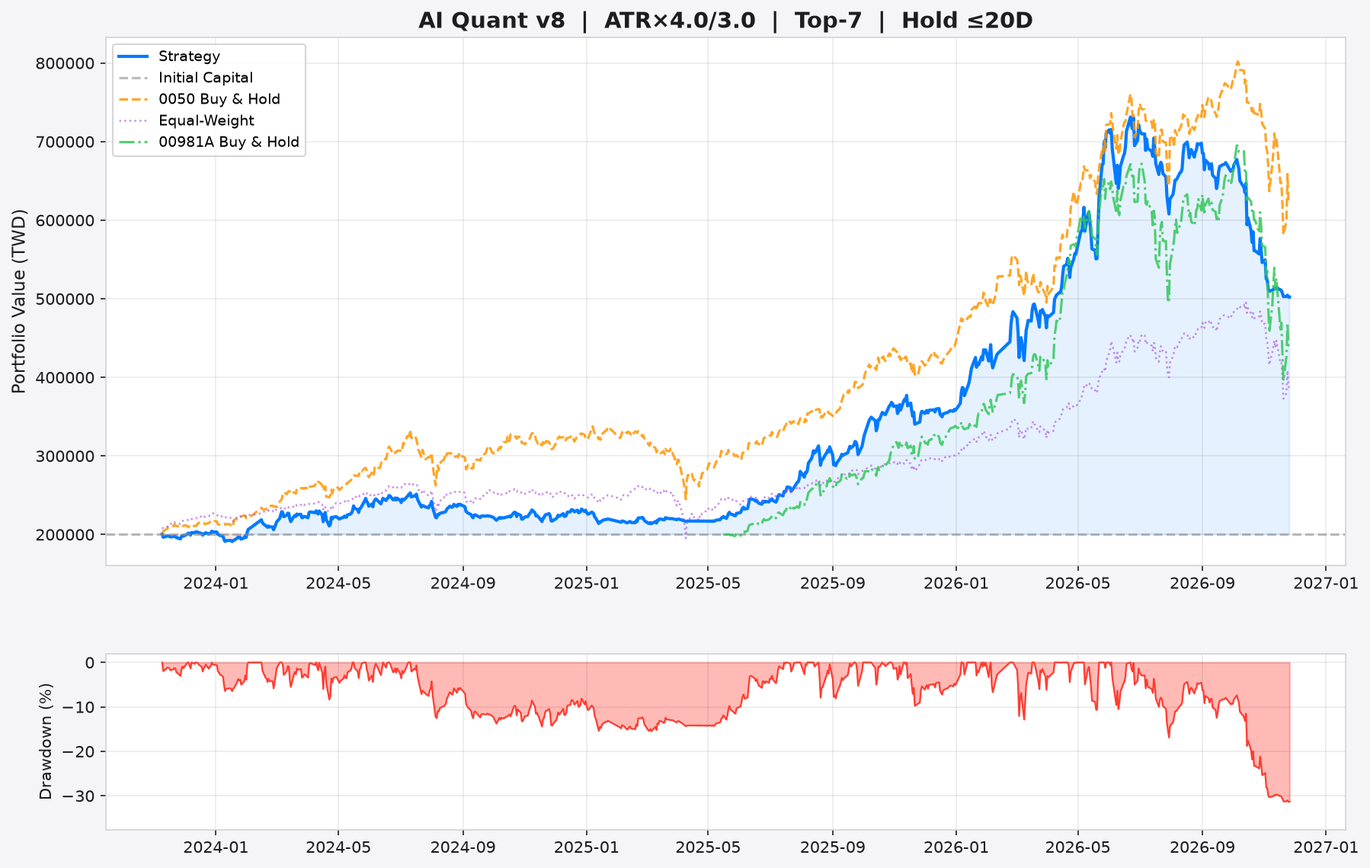
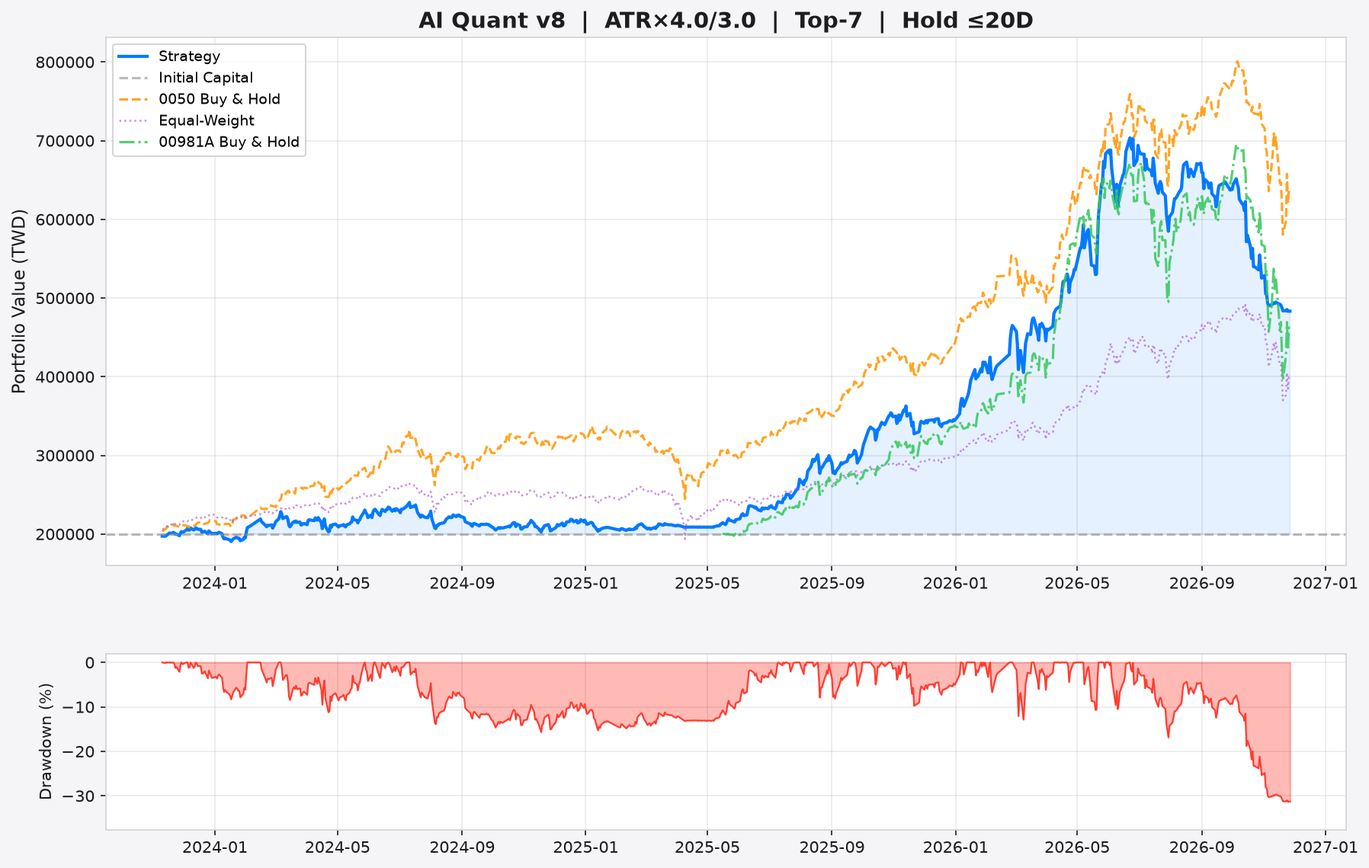
📊 AI Report v8.5 + Paper Trading (2026-11-27)

diff --git a/stock_report.html b/stock_report.html
@@ -3,7 +3,7 @@
 <head>
     <meta charset="utf-8">
     <meta name="viewport" content="width=device-width, initial-scale=1.0">
-    <title>AI 台股量化交易 v8.5 — 2026-11-26</title>
+    <title>AI 台股量化交易 v8.5 — 2026-11-27</title>
     <meta name="description" content="AI 驅動的台股量化交易系統 v8.5，完整風險報告、Benchmark 對比、OCO 智慧掛單建議">
     <script>
         (function() {
@@ -292,7 +292,7 @@
 
     <h1>🎯 AI 台股量化交易 v8.5</h1>
     <p class="subtitle">
-        Event-Driven System &nbsp;|&nbsp; 報表日期: 2026-11-26 &nbsp;|&nbsp;
+        Event-Driven System &nbsp;|&nbsp; 報表日期: 2026-11-27 &nbsp;|&nbsp;
         <span class="config-badge">🛡 ATR×4.0/3.0</span>
         <span class="config-badge">🎯 Top-7</span>
         <span class="config-badge">⏱ 最長 20 天</span>
@@ -303,23 +303,23 @@
     <div class="stats">
         <div class="stat-card">
             <div class="label">策略總報酬率</div>
-            <div class="value" style="color:#00ff00;">+151.1%</div>
+            <div class="value" style="color:#00ff00;">+141.7%</div>
         </div>
         <div class="stat-card">
             <div class="label">年化報酬率</div>
-            <div class="value" style="color:#00ff00;">+36.9%</div>
+            <div class="value" style="color:#00ff00;">+35.1%</div>
         </div>
         <div class="stat-card">
             <div class="label">年化波動率</div>
-            <div class="value">27.2%</div>
+            <div class="value">27.4%</div>
         </div>
         <div class="stat-card risk">
             <div class="label">Sharpe Ratio</div>
-            <div class="value" style="color:#00ff00;">1.29</div>
+            <div class="value" style="color:#00ff00;">1.25</div>
         </div>
         <div class="stat-card risk">
             <div class="label">Sortino Ratio</div>
-            <div class="value">1.80</div>
+            <div class="value">1.70</div>
         </div>
         <div class="stat-card risk">
             <div class="label">最大回撤</div>
@@ -327,23 +327,23 @@
         </div>
         <div class="stat-card risk">
             <div class="label">Calmar Ratio</div>
-            <div class="value">1.18</div>
+            <div class="value">1.12</div>
         </div>
         <div class="stat-card">
             <div class="label">完成交易數</div>
-            <div class="value">569</div>
+            <div class="value">565</div>
         </div>
         <div class="stat-card">
             <div class="label">勝率</div>
-            <div class="value" style="color:#00ff00;">51.3%</div>
+            <div class="value" style="color:#00ff00;">51.2%</div>
         </div>
         <div class="stat-card">
             <div class="label">Profit Factor</div>
-            <div class="value">1.38</div>
+            <div class="value">1.35</div>
         </div>
         <div class="stat-card">
             <div class="label">平均報酬/筆</div>
-            <div class="value">+1.87%</div>
+            <div class="value">+1.75%</div>
         </div>
         <div class="stat-card">
             <div class="label">平均持有天數</div>
@@ -370,15 +370,16 @@
             </tr>
         </thead>
         <tbody>
-<tr><td>2618</td><td>3.98</td><td>45.7</td><td><span style="color:#00ff00; font-weight:bold;">🟢 建議買進 #1</span></td><td><b>停利:</b> <span style="color:#00ff00">52.6</span> (+15.0%) <br><b>停損:</b> <span style="color:#ff4444">42.0</span> (-8.0%) <br><b>最晚出場:</b> 2026-12-24</td><td><span style="font-size:0.72rem; color:#888;">歷史 <b>5</b>筆 | 勝率 <b style="color:#ff4444">20%</b> | 均報酬 <b style="color:#ff4444">-5.6%</b></span></td><td><span style="font-size:0.78rem;">🟡 小買<br><span style="color:#ffab00; font-weight:bold;">+1.1%</span></span></td><td><span style="font-size:0.78rem;">⚪ 中性</span></td></tr>
-<tr><td>2412</td><td>3.95</td><td>163.5</td><td><span style="color:#00ff00; font-weight:bold;">🟢 建議買進 #2</span></td><td><b>停利:</b> <span style="color:#00ff00">188.0</span> (+15.0%) <br><b>停損:</b> <span style="color:#ff4444">150.4</span> (-8.0%) <br><b>最晚出場:</b> 2026-12-24</td><td><span style="font-size:0.72rem; color:#888;">歷史 <b>3</b>筆 | 勝率 <b style="color:#00ff00">100%</b> | 均報酬 <b style="color:#00ff00">+3.1%</b></span></td><td><span style="font-size:0.78rem;">🟡 小買<br><span style="color:#ffab00; font-weight:bold;">+1.1%</span></span></td><td><span style="font-size:0.78rem;">⚪ 中性</span></td></tr>
-<tr><td>1216</td><td>3.87</td><td>78.7</td><td><span style="color:#00ff00; font-weight:bold;">🟢 建議買進 #3</span></td><td><b>停利:</b> <span style="color:#00ff00">90.5</span> (+15.0%) <br><b>停損:</b> <span style="color:#ff4444">72.4</span> (-8.0%) <br><b>最晚出場:</b> 2026-12-24</td><td><span style="font-size:0.72rem; color:#555;">歷史資料不足</span></td><td><span style="font-size:0.78rem;">⚪ 無資料<br><span style="color:#888; font-weight:bold;">+0.0%</span></span></td><td><span style="font-size:0.78rem;">⚪ 中性</span></td></tr>
-<tr><td>2603</td><td>3.75</td><td>252.5</td><td><span style="color:#00ff00; font-weight:bold;">🟢 建議買進 #4</span></td><td><b>停利:</b> <span style="color:#00ff00">290.4</span> (+15.0%) <br><b>停損:</b> <span style="color:#ff4444">232.3</span> (-8.0%) <br><b>最晚出場:</b> 2026-12-24</td><td><span style="font-size:0.72rem; color:#888;">歷史 <b>11</b>筆 | 勝率 <b style="color:#ff4444">27%</b> | 均報酬 <b style="color:#ff4444">-3.9%</b></span></td><td><span style="font-size:0.78rem;">🟡 小買<br><span style="color:#ffab00; font-weight:bold;">+1.6%</span></span></td><td><span style="font-size:0.78rem;">⚪ 中性</span></td></tr>
-<tr style="opacity:0.4"><td>3661</td><td>3.77</td><td>3605.0</td><td><span style="color:#aaaaaa">⚪ 觀望 (低於 MA)</span></td><td>-</td><td>-</td><td style="color:#555">-</td><td style="color:#555">-</td></tr>
-<tr style="opacity:0.4"><td>3045</td><td>3.68</td><td>123.0</td><td><span style="color:#aaaaaa">⚪ 觀望 (低於 MA)</span></td><td>-</td><td>-</td><td style="color:#555">-</td><td style="color:#555">-</td></tr>
-<tr style="opacity:0.4"><td>2886</td><td>3.60</td><td>49.7</td><td><span style="color:#aaaaaa">⚪ 觀望 (低於 MA)</span></td><td>-</td><td>-</td><td style="color:#555">-</td><td style="color:#555">-</td></tr>
-<tr style="opacity:0.4"><td>2330</td><td>3.43</td><td>2150.0</td><td><span style="color:#aaaaaa">⚪ 觀望 (低於 MA)</span></td><td>-</td><td>-</td><td style="color:#555">-</td><td style="color:#555">-</td></tr>
-<tr style="opacity:0.4"><td>2379</td><td>3.43</td><td>699.0</td><td><span style="color:#aaaaaa">⚪ 觀望 (低於 MA)</span></td><td>-</td><td>-</td><td style="color:#555">-</td><td style="color:#555">-</td></tr>
+<tr><td>3661</td><td>3.93</td><td>3735.0</td><td><span style="color:#00ff00; font-weight:bold;">🟢 建議買進 #1</span></td><td><b>停利:</b> <span style="color:#00ff00">4295.2</span> (+15.0%) <br><b>停損:</b> <span style="color:#ff4444">3436.2</span> (-8.0%) <br><b>最晚出場:</b> 2026-12-28</td><td><span style="font-size:0.72rem; color:#888;">歷史 <b>8</b>筆 | 勝率 <b style="color:#00ff00">50%</b> | 均報酬 <b style="color:#00ff00">+0.1%</b></span></td><td><span style="font-size:0.78rem;">⚪ 無資料<br><span style="color:#888; font-weight:bold;">+0.0%</span></span></td><td><span style="font-size:0.78rem;">⚪ 中性</span></td></tr>
+<tr><td>2618</td><td>3.93</td><td>46.0</td><td><span style="color:#00ff00; font-weight:bold;">🟢 建議買進 #2</span></td><td><b>停利:</b> <span style="color:#00ff00">53.0</span> (+15.0%) <br><b>停損:</b> <span style="color:#ff4444">42.4</span> (-8.0%) <br><b>最晚出場:</b> 2026-12-28</td><td><span style="font-size:0.72rem; color:#888;">歷史 <b>5</b>筆 | 勝率 <b style="color:#ff4444">20%</b> | 均報酬 <b style="color:#ff4444">-5.6%</b></span></td><td><span style="font-size:0.78rem;">🟡 小買<br><span style="color:#ffab00; font-weight:bold;">+1.1%</span></span></td><td><span style="font-size:0.78rem;">⚪ 中性</span></td></tr>
+<tr><td>2412</td><td>3.90</td><td>166.5</td><td><span style="color:#00ff00; font-weight:bold;">🟢 建議買進 #3</span></td><td><b>停利:</b> <span style="color:#00ff00">191.5</span> (+15.0%) <br><b>停損:</b> <span style="color:#ff4444">153.2</span> (-8.0%) <br><b>最晚出場:</b> 2026-12-28</td><td><span style="font-size:0.72rem; color:#888;">歷史 <b>3</b>筆 | 勝率 <b style="color:#00ff00">100%</b> | 均報酬 <b style="color:#00ff00">+3.1%</b></span></td><td><span style="font-size:0.78rem;">🟡 小買<br><span style="color:#ffab00; font-weight:bold;">+1.1%</span></span></td><td><span style="font-size:0.78rem;">⚪ 中性</span></td></tr>
+<tr><td>1216</td><td>3.70</td><td>78.5</td><td><span style="color:#00ff00; font-weight:bold;">🟢 建議買進 #4</span></td><td><b>停利:</b> <span style="color:#00ff00">90.3</span> (+15.0%) <br><b>停損:</b> <span style="color:#ff4444">72.2</span> (-8.0%) <br><b>最晚出場:</b> 2026-12-28</td><td><span style="font-size:0.72rem; color:#555;">歷史資料不足</span></td><td><span style="font-size:0.78rem;">⚪ 無資料<br><span style="color:#888; font-weight:bold;">+0.0%</span></span></td><td><span style="font-size:0.78rem;">⚪ 中性</span></td></tr>
+<tr><td>2603</td><td>3.47</td><td>254.0</td><td><span style="color:#00ff00; font-weight:bold;">🟢 建議買進 #5</span></td><td><b>停利:</b> <span style="color:#00ff00">292.1</span> (+15.0%) <br><b>停損:</b> <span style="color:#ff4444">233.7</span> (-8.0%) <br><b>最晚出場:</b> 2026-12-28</td><td><span style="font-size:0.72rem; color:#888;">歷史 <b>11</b>筆 | 勝率 <b style="color:#ff4444">27%</b> | 均報酬 <b style="color:#ff4444">-3.7%</b></span></td><td><span style="font-size:0.78rem;">🟡 小買<br><span style="color:#ffab00; font-weight:bold;">+1.6%</span></span></td><td><span style="font-size:0.78rem;">⚪ 中性</span></td></tr>
+<tr style="opacity:0.4"><td>6446</td><td>3.65</td><td>1175.0</td><td><span style="color:#aaaaaa">⚪ 觀望 (低於 MA)</span></td><td>-</td><td>-</td><td style="color:#555">-</td><td style="color:#555">-</td></tr>
+<tr style="opacity:0.4"><td>3044</td><td>3.52</td><td>497.0</td><td><span style="color:#aaaaaa">⚪ 觀望 (低於 MA)</span></td><td>-</td><td>-</td><td style="color:#555">-</td><td style="color:#555">-</td></tr>
+<tr style="opacity:0.4"><td>2368</td><td>3.52</td><td>995.0</td><td><span style="color:#aaaaaa">⚪ 觀望 (低於 MA)</span></td><td>-</td><td>-</td><td style="color:#555">-</td><td style="color:#555">-</td></tr>
+<tr style="opacity:0.4"><td>2345</td><td>3.50</td><td>1620.0</td><td><span style="color:#aaaaaa">⚪ 觀望 (低於 MA)</span></td><td>-</td><td>-</td><td style="color:#555">-</td><td style="color:#555">-</td></tr>
+<tr style="opacity:0.4"><td>5871</td><td>3.43</td><td>101.0</td><td><span style="color:#aaaaaa">⚪ 觀望 (低於 MA)</span></td><td>-</td><td>-</td><td style="color:#555">-</td><td style="color:#555">-</td></tr>
 
         </tbody>
     </table>
@@ -453,7 +454,7 @@
     <div class="stats">
         <div class="stat-card benchmark">
             <div class="label">0050 年化報酬</div>
-            <div class="value">+43.0%</div>
+            <div class="value">+44.2%</div>
         </div>
         <div class="stat-card benchmark">
             <div class="label">0050 最大回撤</div>
@@ -461,18 +462,18 @@
         </div>
         <div class="stat-card benchmark">
             <div class="label">0050 Sharpe</div>
-            <div class="value">1.45</div>
+            <div class="value">1.48</div>
         </div>
         <div class="stat-card" style="border-left-color:#ff4444">
             <div class="label">超額年化報酬 (α)</div>
-            <div class="value" style="color:#ff4444">-6.1%</div>
+            <div class="value" style="color:#ff4444">-9.1%</div>
         </div>
     </div>
 
     <div class="stats">
         <div class="stat-card benchmark">
             <div class="label">00981A 年化報酬</div>
-            <div class="value">+69.1%</div>
+            <div class="value">+76.3%</div>
         </div>
         <div class="stat-card benchmark">
             <div class="label">00981A 最大回撤</div>
@@ -480,11 +481,11 @@
         </div>
         <div class="stat-card benchmark">
             <div class="label">00981A Sharpe</div>
-            <div class="value">1.48</div>
+            <div class="value">1.57</div>
         </div>
-        <div class="stat-card" style="border-left-color:#00ff00">
+        <div class="stat-card" style="border-left-color:#ff4444">
             <div class="label">超額 vs 00981A (共存期)</div>
-            <div class="value" style="color:#00ff00">+6.7%</div>
+            <div class="value" style="color:#ff4444">-7.7%</div>
         </div>
     </div>
     <img src="backtest_chart.png" alt="AI Quantitative Backtest Equity Curve with Benchmark">
@@ -499,19 +500,19 @@
         </div>
         <div class="stat-card benchmark">
             <div class="label">0050 近 5 日</div>
-            <div class="value" style="color:#00ff00">+0.1%</div>
+            <div class="value" style="color:#00ff00">+9.9%</div>
         </div>
         <div class="stat-card benchmark">
             <div class="label">0050 近 20 日</div>
-            <div class="value" style="color:#ff4444">-15.8%</div>
+            <div class="value" style="color:#ff4444">-11.5%</div>
         </div>
         <div class="stat-card benchmark">
             <div class="label">0050 近 60 日</div>
-            <div class="value" style="color:#ff4444">-15.6%</div>
+            <div class="value" style="color:#ff4444">-12.6%</div>
         </div>
         <div class="stat-card risk">
             <div class="label">市場波動率 (20D)</div>
-            <div class="value">66.0%</div>
+            <div class="value">67.2%</div>
         </div>
     </div>
 
@@ -525,21 +526,21 @@
         </div>
         <div class="stat-card">
             <div class="label">權益最高點</div>
-            <div class="value">731,275</div>
+            <div class="value">703,501</div>
         </div>
         <div class="stat-card">
             <div class="label">歷史回撤次數</div>
-            <div class="value">35</div>
+            <div class="value">31</div>
         </div>
     </div>
     <table>
         <thead><tr><th>#</th><th>開始日</th><th>恢復日</th><th>最大深度</th><th>持續天數</th></tr></thead>
         <tbody>
-<tr><td>#1</td><td>2026-06-26</td><td>2026-11-26</td><td style="color:#ff4444; font-weight:bold">-31.3%</td><td>153 天</td></tr>
-<tr><td>#2</td><td>2024-07-12</td><td>2025-07-15</td><td style="color:#ff4444; font-weight:bold">-15.5%</td><td>368 天</td></tr>
+<tr><td>#1</td><td>2026-06-26</td><td>2026-11-27</td><td style="color:#ff4444; font-weight:bold">-31.3%</td><td>154 天</td></tr>
+<tr><td>#2</td><td>2024-07-12</td><td>2025-07-09</td><td style="color:#ff4444; font-weight:bold">-15.7%</td><td>362 天</td></tr>
 <tr><td>#3</td><td>2026-03-02</td><td>2026-03-17</td><td style="color:#ff4444; font-weight:bold">-12.9%</td><td>15 天</td></tr>
-<tr><td>#4</td><td>2026-05-08</td><td>2026-05-22</td><td style="color:#ff4444; font-weight:bold">-10.7%</td><td>14 天</td></tr>
-<tr><td>#5</td><td>2026-06-04</td><td>2026-06-18</td><td style="color:#ff4444; font-weight:bold">-10.5%</td><td>14 天</td></tr>
+<tr><td>#4</td><td>2024-03-07</td><td>2024-05-27</td><td style="color:#ff4444; font-weight:bold">-11.2%</td><td>81 天</td></tr>
+<tr><td>#5</td><td>2026-05-08</td><td>2026-05-22</td><td style="color:#ff4444; font-weight:bold">-10.7%</td><td>14 天</td></tr>
 
         </tbody>
     </table>
@@ -550,11 +551,11 @@
     <div class="stats">
         <div class="stat-card" style="border-left-color:#ff4444">
             <div class="label">近 60 日 Sharpe</div>
-            <div class="value" style="color:#ff4444">-4.59</div>
+            <div class="value" style="color:#ff4444">-4.62</div>
         </div>
         <div class="stat-card">
             <div class="label">歷史平均 Sharpe</div>
-            <div class="value">1.52</div>
+            <div class="value">1.46</div>
         </div>
         <div class="stat-card risk">
             <div class="label">歷史最低 Sharpe</div>
@@ -588,9 +589,9 @@
     <table>
         <thead><tr><th>出場原因</th><th>次數</th><th>平均報酬</th></tr></thead>
         <tbody>
-<tr><td>🟢 停利</td><td>203 筆</td><td style="color:#00ff00">+16.52%</td></tr>
-<tr><td>⚪ 時間到期</td><td>199 筆</td><td style="color:#ff4444">-0.51%</td></tr>
-<tr><td>🔴 停損</td><td>167 筆</td><td style="color:#ff4444">-13.10%</td></tr>
+<tr><td>🟢 停利</td><td>200 筆</td><td style="color:#00ff00">+16.54%</td></tr>
+<tr><td>⚪ 時間到期</td><td>199 筆</td><td style="color:#ff4444">-0.66%</td></tr>
+<tr><td>🔴 停損</td><td>166 筆</td><td style="color:#ff4444">-13.19%</td></tr>
 
         </tbody>
     </table>
@@ -600,14 +601,14 @@
 
     <table>
         <thead><tr><th>報酬區間</th><th>筆數</th><th>佔比</th><th>分布</th></tr></thead>
-        <tbody><tr><td>< -15%</td><td>45</td><td>7.9%</td><td><div style="background:#ff4444; width:23.72583479789104%; height:14px; border-radius:3px; opacity:0.6"></div></td></tr>
-<tr><td>-15~-10%</td><td>92</td><td>16.2%</td><td><div style="background:#ff4444; width:48.50615114235501%; height:14px; border-radius:3px; opacity:0.6"></div></td></tr>
-<tr><td>-10~-5%</td><td>82</td><td>14.4%</td><td><div style="background:#ff4444; width:43.23374340949033%; height:14px; border-radius:3px; opacity:0.6"></div></td></tr>
-<tr><td>-5~0%</td><td>58</td><td>10.2%</td><td><div style="background:#ff4444; width:30.579964850615113%; height:14px; border-radius:3px; opacity:0.6"></div></td></tr>
-<tr><td>0~5%</td><td>52</td><td>9.1%</td><td><div style="background:#00ff00; width:27.41652021089631%; height:14px; border-radius:3px; opacity:0.6"></div></td></tr>
-<tr><td>5~10%</td><td>36</td><td>6.3%</td><td><div style="background:#00ff00; width:18.980667838312833%; height:14px; border-radius:3px; opacity:0.6"></div></td></tr>
-<tr><td>10~20%</td><td>154</td><td>27.1%</td><td><div style="background:#00ff00; width:81.19507908611598%; height:14px; border-radius:3px; opacity:0.6"></div></td></tr>
-<tr><td>> 20%</td><td>50</td><td>8.8%</td><td><div style="background:#00ff00; width:26.36203866432337%; height:14px; border-radius:3px; opacity:0.6"></div></td></tr>
+        <tbody><tr><td>< -15%</td><td>45</td><td>8.0%</td><td><div style="background:#ff4444; width:23.893805309734514%; height:14px; border-radius:3px; opacity:0.6"></div></td></tr>
+<tr><td>-15~-10%</td><td>96</td><td>17.0%</td><td><div style="background:#ff4444; width:50.97345132743362%; height:14px; border-radius:3px; opacity:0.6"></div></td></tr>
+<tr><td>-10~-5%</td><td>76</td><td>13.5%</td><td><div style="background:#ff4444; width:40.35398230088495%; height:14px; border-radius:3px; opacity:0.6"></div></td></tr>
+<tr><td>-5~0%</td><td>59</td><td>10.4%</td><td><div style="background:#ff4444; width:31.32743362831858%; height:14px; border-radius:3px; opacity:0.6"></div></td></tr>
+<tr><td>0~5%</td><td>54</td><td>9.6%</td><td><div style="background:#00ff00; width:28.67256637168142%; height:14px; border-radius:3px; opacity:0.6"></div></td></tr>
+<tr><td>5~10%</td><td>38</td><td>6.7%</td><td><div style="background:#00ff00; width:20.176991150442475%; height:14px; border-radius:3px; opacity:0.6"></div></td></tr>
+<tr><td>10~20%</td><td>147</td><td>26.0%</td><td><div style="background:#00ff00; width:78.05309734513273%; height:14px; border-radius:3px; opacity:0.6"></div></td></tr>
+<tr><td>> 20%</td><td>50</td><td>8.8%</td><td><div style="background:#00ff00; width:26.54867256637168%; height:14px; border-radius:3px; opacity:0.6"></div></td></tr>
 </tbody>
     </table>
 
@@ -617,24 +618,24 @@
     <h3 style="color:#00e5ff; margin-top:16px">🏆 Top 10 貢獻股</h3>
     <table>
         <thead><tr><th>股票</th><th>交易數</th><th>勝率</th><th>平均報酬</th><th>總貢獻</th></tr></thead>
-        <tbody><tr><td><b>2383</b></td><td>15</td><td style="color:#00ff00">80%</td><td style="color:#00ff00">+11.9%</td><td style="color:#00ff00; font-weight:bold">+178.0%</td></tr>
-<tr><td><b>3017</b></td><td>18</td><td style="color:#00ff00">83%</td><td style="color:#00ff00">+9.4%</td><td style="color:#00ff00; font-weight:bold">+169.7%</td></tr>
+        <tbody><tr><td><b>2383</b></td><td>15</td><td style="color:#00ff00">80%</td><td style="color:#00ff00">+12.0%</td><td style="color:#00ff00; font-weight:bold">+179.7%</td></tr>
 <tr><td><b>2344</b></td><td>14</td><td style="color:#00ff00">79%</td><td style="color:#00ff00">+11.1%</td><td style="color:#00ff00; font-weight:bold">+155.0%</td></tr>
+<tr><td><b>3017</b></td><td>17</td><td style="color:#00ff00">82%</td><td style="color:#00ff00">+9.0%</td><td style="color:#00ff00; font-weight:bold">+153.7%</td></tr>
 <tr><td><b>2408</b></td><td>16</td><td style="color:#00ff00">75%</td><td style="color:#00ff00">+9.0%</td><td style="color:#00ff00; font-weight:bold">+143.9%</td></tr>
-<tr><td><b>6770</b></td><td>10</td><td style="color:#00ff00">80%</td><td style="color:#00ff00">+10.7%</td><td style="color:#00ff00; font-weight:bold">+106.5%</td></tr>
+<tr><td><b>6770</b></td><td>9</td><td style="color:#00ff00">89%</td><td style="color:#00ff00">+12.9%</td><td style="color:#00ff00; font-weight:bold">+115.9%</td></tr>
+<tr><td><b>1519</b></td><td>16</td><td style="color:#00ff00">62%</td><td style="color:#00ff00">+6.3%</td><td style="color:#00ff00; font-weight:bold">+101.4%</td></tr>
 <tr><td><b>2327</b></td><td>11</td><td style="color:#00ff00">64%</td><td style="color:#00ff00">+7.3%</td><td style="color:#00ff00; font-weight:bold">+79.8%</td></tr>
-<tr><td><b>1519</b></td><td>15</td><td style="color:#00ff00">53%</td><td style="color:#00ff00">+4.5%</td><td style="color:#00ff00; font-weight:bold">+67.8%</td></tr>
-<tr><td><b>3037</b></td><td>12</td><td style="color:#00ff00">58%</td><td style="color:#00ff00">+5.6%</td><td style="color:#00ff00; font-weight:bold">+66.9%</td></tr>
+<tr><td><b>3037</b></td><td>11</td><td style="color:#00ff00">64%</td><td style="color:#00ff00">+7.1%</td><td style="color:#00ff00; font-weight:bold">+77.6%</td></tr>
+<tr><td><b>5274O</b></td><td>14</td><td style="color:#00ff00">71%</td><td style="color:#00ff00">+4.9%</td><td style="color:#00ff00; font-weight:bold">+68.6%</td></tr>
 <tr><td><b>1504</b></td><td>8</td><td style="color:#00ff00">88%</td><td style="color:#00ff00">+7.5%</td><td style="color:#00ff00; font-weight:bold">+60.2%</td></tr>
-<tr><td><b>1303</b></td><td>15</td><td style="color:#00ff00">67%</td><td style="color:#00ff00">+4.0%</td><td style="color:#00ff00; font-weight:bold">+60.2%</td></tr>
 </tbody>
     </table>
     <h3 style="color:#ff4444; margin-top:16px">📉 Bottom 5 虧損股</h3>
     <table>
         <thead><tr><th>股票</th><th>交易數</th><th>勝率</th><th>平均報酬</th><th>總貢獻</th></tr></thead>
-        <tbody><tr style="opacity:0.7"><td><b>2605</b></td><td>3</td><td style="color:#ff4444">0%</td><td style="color:#ff4444">-10.7%</td><td style="color:#ff4444; font-weight:bold">-32.1%</td></tr>
-<tr style="opacity:0.7"><td><b>1301</b></td><td>3</td><td style="color:#ff4444">0%</td><td style="color:#ff4444">-10.8%</td><td style="color:#ff4444; font-weight:bold">-32.6%</td></tr>
-<tr style="opacity:0.7"><td><b>2603</b></td><td>11</td><td style="color:#ff4444">27%</td><td style="color:#ff4444">-3.9%</td><td style="color:#ff4444; font-weight:bold">-42.9%</td></tr>
+        <tbody><tr style="opacity:0.7"><td><b>2609</b></td><td>13</td><td style="color:#ff4444">31%</td><td style="color:#ff4444">-2.7%</td><td style="color:#ff4444; font-weight:bold">-35.4%</td></tr>
+<tr style="opacity:0.7"><td><b>2603</b></td><td>11</td><td style="color:#ff4444">27%</td><td style="color:#ff4444">-3.7%</td><td style="color:#ff4444; font-weight:bold">-40.9%</td></tr>
+<tr style="opacity:0.7"><td><b>1301</b></td><td>4</td><td style="color:#ff4444">0%</td><td style="color:#ff4444">-11.3%</td><td style="color:#ff4444; font-weight:bold">-45.2%</td></tr>
 <tr style="opacity:0.7"><td><b>6505</b></td><td>6</td><td style="color:#ff4444">17%</td><td style="color:#ff4444">-8.9%</td><td style="color:#ff4444; font-weight:bold">-53.2%</td></tr>
 <tr style="opacity:0.7"><td><b>1326</b></td><td>6</td><td style="color:#ff4444">0%</td><td style="color:#ff4444">-9.8%</td><td style="color:#ff4444; font-weight:bold">-59.0%</td></tr>
 </tbody>
@@ -679,23 +680,23 @@
     <table style="max-width:400px">
         <thead><tr><th>月份</th><th>月報酬</th></tr></thead>
         <tbody>
-<tr style="background:rgba(0,255,0,0.08)"><td>2023-12</td><td style="color:#00ff00; font-weight:bold">+2.8%</td></tr>
-<tr style="background:rgba(255,68,68,0.10)"><td>2024-01</td><td style="color:#ff4444; font-weight:bold">-3.4%</td></tr>
-<tr style="background:rgba(0,255,0,0.24)"><td>2024-02</td><td style="color:#00ff00; font-weight:bold">+8.1%</td></tr>
-<tr style="background:rgba(0,255,0,0.15)"><td>2024-03</td><td style="color:#00ff00; font-weight:bold">+5.0%</td></tr>
-<tr style="background:rgba(255,68,68,0.02)"><td>2024-04</td><td style="color:#ff4444; font-weight:bold">-0.6%</td></tr>
-<tr style="background:rgba(0,255,0,0.19)"><td>2024-05</td><td style="color:#00ff00; font-weight:bold">+6.5%</td></tr>
-<tr style="background:rgba(0,255,0,0.13)"><td>2024-06</td><td style="color:#00ff00; font-weight:bold">+4.4%</td></tr>
-<tr style="background:rgba(255,68,68,0.10)"><td>2024-07</td><td style="color:#ff4444; font-weight:bold">-3.4%</td></tr>
-<tr style="background:rgba(255,68,68,0.00)"><td>2024-08</td><td style="color:#ff4444; font-weight:bold">-0.1%</td></tr>
-<tr style="background:rgba(255,68,68,0.19)"><td>2024-09</td><td style="color:#ff4444; font-weight:bold">-6.5%</td></tr>
-<tr style="background:rgba(255,68,68,0.04)"><td>2024-10</td><td style="color:#ff4444; font-weight:bold">-1.2%</td></tr>
-<tr style="background:rgba(255,68,68,0.02)"><td>2024-11</td><td style="color:#ff4444; font-weight:bold">-0.7%</td></tr>
+<tr style="background:rgba(255,68,68,0.03)"><td>2023-12</td><td style="color:#ff4444; font-weight:bold">-0.9%</td></tr>
+<tr style="background:rgba(255,68,68,0.08)"><td>2024-01</td><td style="color:#ff4444; font-weight:bold">-2.7%</td></tr>
+<tr style="background:rgba(0,255,0,0.27)"><td>2024-02</td><td style="color:#00ff00; font-weight:bold">+9.0%</td></tr>
+<tr style="background:rgba(0,255,0,0.01)"><td>2024-03</td><td style="color:#00ff00; font-weight:bold">+0.4%</td></tr>
+<tr style="background:rgba(255,68,68,0.03)"><td>2024-04</td><td style="color:#ff4444; font-weight:bold">-0.9%</td></tr>
+<tr style="background:rgba(0,255,0,0.13)"><td>2024-05</td><td style="color:#00ff00; font-weight:bold">+4.4%</td></tr>
+<tr style="background:rgba(0,255,0,0.15)"><td>2024-06</td><td style="color:#00ff00; font-weight:bold">+5.1%</td></tr>
+<tr style="background:rgba(255,68,68,0.10)"><td>2024-07</td><td style="color:#ff4444; font-weight:bold">-3.3%</td></tr>
+<tr style="background:rgba(255,68,68,0.03)"><td>2024-08</td><td style="color:#ff4444; font-weight:bold">-0.9%</td></tr>
+<tr style="background:rgba(255,68,68,0.18)"><td>2024-09</td><td style="color:#ff4444; font-weight:bold">-6.0%</td></tr>
+<tr style="background:rgba(255,68,68,0.04)"><td>2024-10</td><td style="color:#ff4444; font-weight:bold">-1.3%</td></tr>
+<tr style="background:rgba(255,68,68,0.01)"><td>2024-11</td><td style="color:#ff4444; font-weight:bold">-0.4%</td></tr>
 <tr style="background:rgba(0,255,0,0.18)"><td>2024-12</td><td style="color:#00ff00; font-weight:bold">+5.9%</td></tr>
-<tr style="background:rgba(255,68,68,0.14)"><td>2025-01</td><td style="color:#ff4444; font-weight:bold">-4.8%</td></tr>
-<tr style="background:rgba(255,68,68,0.03)"><td>2025-02</td><td style="color:#ff4444; font-weight:bold">-0.9%</td></tr>
-<tr style="background:rgba(0,255,0,0.01)"><td>2025-03</td><td style="color:#00ff00; font-weight:bold">+0.5%</td></tr>
-<tr style="background:rgba(255,68,68,0.03)"><td>2025-04</td><td style="color:#ff4444; font-weight:bold">-0.9%</td></tr>
+<tr style="background:rgba(255,68,68,0.13)"><td>2025-01</td><td style="color:#ff4444; font-weight:bold">-4.2%</td></tr>
+<tr style="background:rgba(0,255,0,0.02)"><td>2025-02</td><td style="color:#00ff00; font-weight:bold">+0.7%</td></tr>
+<tr style="background:rgba(0,255,0,0.00)"><td>2025-03</td><td style="color:#00ff00; font-weight:bold">+0.1%</td></tr>
+<tr style="background:rgba(255,68,68,0.02)"><td>2025-04</td><td style="color:#ff4444; font-weight:bold">-0.8%</td></tr>
 <tr style="background:rgba(0,255,0,0.14)"><td>2025-05</td><td style="color:#00ff00; font-weight:bold">+4.6%</td></tr>
 <tr style="background:rgba(0,255,0,0.19)"><td>2025-06</td><td style="color:#00ff00; font-weight:bold">+6.4%</td></tr>
 <tr style="background:rgba(0,255,0,0.30)"><td>2025-07</td><td style="color:#00ff00; font-weight:bold">+16.1%</td></tr>

diff --git a/paper_trading.html b/paper_trading.html
@@ -3,7 +3,7 @@
 <head>
     <meta charset="utf-8">
     <meta name="viewport" content="width=device-width, initial-scale=1.0">
-    <title>Paper Trading v8.5 — 2026-11-26</title>
+    <title>Paper Trading v8.5 — 2026-11-27</title>
     <meta name="description" content="TW Stocker v8.5 Paper Trading 實時績效追蹤">
     <script src="https://cdn.jsdelivr.net/npm/chart.js@4"></script>
     <style>
@@ -92,7 +92,7 @@
     <h1>📈 Paper Trading v8.5</h1>
     <p class="subtitle">
         <span class="badge badge-live">● LIVE</span>
-        起始日 2026-04-22 | 更新 2026-11-26 | 初始資金 200,000 | 保留本金 10%，其餘投入
+        起始日 2026-04-22 | 更新 2026-11-27 | 初始資金 200,000 | 保留本金 10%，其餘投入
     </p>
 
     <div class="metrics">
@@ -106,7 +106,7 @@
         </div>
         <div class="metric">
             <div class="label">年化報酬</div>
-            <div class="value red">-22.9%</div>
+            <div class="value red">-22.7%</div>
         </div>
         <div class="metric">
             <div class="label">最大回撤</div>
@@ -432,10 +432,10 @@ const ctx = document.getElementById('equityChart').getContext('2d');
 new Chart(ctx, {
     type: 'line',
     data: {
-        labels: ["2026-04-22", "2026-04-23", "2026-04-24", "2026-04-27", "2026-04-29", "2026-04-30", "2026-05-01", "2026-05-04", "2026-05-05", "2026-05-06", "2026-05-07", "2026-05-08", "2026-05-11", "2026-05-12", "2026-05-13", "2026-05-14", "2026-05-15", "2026-05-18", "2026-05-19", "2026-05-20", "2026-05-21", "2026-05-22", "2026-05-25", "2026-05-26", "2026-05-27", "2026-05-28", "2026-05-29", "2026-06-01", "2026-06-02", "2026-06-03", "2026-06-04", "2026-06-05", "2026-06-08", "2026-06-09", "2026-06-10", "2026-06-11", "2026-06-12", "2026-06-15", "2026-06-16", "2026-06-17", "2026-06-18", "2026-06-19", "2026-06-22", "2026-06-23", "2026-06-24", "2026-06-25", "2026-06-26", "2026-06-29", "2026-06-30", "2026-07-01", "2026-07-02", "2026-07-03", "2026-07-06", "2026-07-07", "2026-07-08", "2026-07-09", "2026-07-10", "2026-07-13", "2026-07-14", "2026-07-15", "2026-07-16", "2026-07-17", "2026-07-20", "2026-07-21", "2026-07-22", "2026-07-23", "2026-07-24", "2026-07-27", "2026-07-28", "2026-07-29", "2026-07-30", "2026-07-31", "2026-08-03", "2026-08-04", "2026-08-05", "2026-08-06", "2026-08-07", "2026-08-10", "2026-08-11", "2026-08-12", "2026-08-13", "2026-08-14", "2026-08-17", "2026-08-18", "2026-08-19", "2026-08-20", "2026-08-21", "2026-08-24", "2026-08-25", "2026-08-26", "2026-08-27", "2026-08-28", "2026-08-31", "2026-09-01", "2026-09-02", "2026-09-03", "2026-09-04", "2026-09-07", "2026-09-08", "2026-09-09", "2026-09-10", "2026-09-11", "2026-09-14", "2026-09-15", "2026-09-16", "2026-09-17", "2026-09-18", "2026-09-21", "2026-09-22", "2026-09-23", "2026-09-24", "2026-09-25", "2026-09-28", "2026-09-29", "2026-09-30", "2026-10-01", "2026-10-02", "2026-10-05", "2026-10-06", "2026-10-07", "2026-10-08", "2026-10-09", "2026-10-12", "2026-10-13", "2026-10-14", "2026-10-15", "2026-10-16", "2026-10-19", "2026-10-20", "2026-10-21", "2026-10-22", "2026-10-23", "2026-10-26", "2026-10-27", "2026-10-28", "2026-10-29", "2026-10-30", "2026-11-02", "2026-11-03", "2026-11-04", "2026-11-05", "2026-11-06", "2026-11-09", "2026-11-10", "2026-11-11", "2026-11-12", "2026-11-13", "2026-11-16", "2026-11-17", "2026-11-18", "2026-11-19", "2026-11-20", "2026-11-23", "2026-11-24", "2026-11-25", "2026-11-26"],
+        labels: ["2026-04-22", "2026-04-23", "2026-04-24", "2026-04-27", "2026-04-29", "2026-04-30", "2026-05-01", "2026-05-04", "2026-05-05", "2026-05-06", "2026-05-07", "2026-05-08", "2026-05-11", "2026-05-12", "2026-05-13", "2026-05-14", "2026-05-15", "2026-05-18", "2026-05-19", "2026-05-20", "2026-05-21", "2026-05-22", "2026-05-25", "2026-05-26", "2026-05-27", "2026-05-28", "2026-05-29", "2026-06-01", "2026-06-02", "2026-06-03", "2026-06-04", "2026-06-05", "2026-06-08", "2026-06-09", "2026-06-10", "2026-06-11", "2026-06-12", "2026-06-15", "2026-06-16", "2026-06-17", "2026-06-18", "2026-06-19", "2026-06-22", "2026-06-23", "2026-06-24", "2026-06-25", "2026-06-26", "2026-06-29", "2026-06-30", "2026-07-01", "2026-07-02", "2026-07-03", "2026-07-06", "2026-07-07", "2026-07-08", "2026-07-09", "2026-07-10", "2026-07-13", "2026-07-14", "2026-07-15", "2026-07-16", "2026-07-17", "2026-07-20", "2026-07-21", "2026-07-22", "2026-07-23", "2026-07-24", "2026-07-27", "2026-07-28", "2026-07-29", "2026-07-30", "2026-07-31", "2026-08-03", "2026-08-04", "2026-08-05", "2026-08-06", "2026-08-07", "2026-08-10", "2026-08-11", "2026-08-12", "2026-08-13", "2026-08-14", "2026-08-17", "2026-08-18", "2026-08-19", "2026-08-20", "2026-08-21", "2026-08-24", "2026-08-25", "2026-08-26", "2026-08-27", "2026-08-28", "2026-08-31", "2026-09-01", "2026-09-02", "2026-09-03", "2026-09-04", "2026-09-07", "2026-09-08", "2026-09-09", "2026-09-10", "2026-09-11", "2026-09-14", "2026-09-15", "2026-09-16", "2026-09-17", "2026-09-18", "2026-09-21", "2026-09-22", "2026-09-23", "2026-09-24", "2026-09-25", "2026-09-28", "2026-09-29", "2026-09-30", "2026-10-01", "2026-10-02", "2026-10-05", "2026-10-06", "2026-10-07", "2026-10-08", "2026-10-09", "2026-10-12", "2026-10-13", "2026-10-14", "2026-10-15", "2026-10-16", "2026-10-19", "2026-10-20", "2026-10-21", "2026-10-22", "2026-10-23", "2026-10-26", "2026-10-27", "2026-10-28", "2026-10-29", "2026-10-30", "2026-11-02", "2026-11-03", "2026-11-04", "2026-11-05", "2026-11-06", "2026-11-09", "2026-11-10", "2026-11-11", "2026-11-12", "2026-11-13", "2026-11-16", "2026-11-17", "2026-11-18", "2026-11-19", "2026-11-20", "2026-11-23", "2026-11-24", "2026-11-25", "2026-11-26", "2026-11-27"],
         datasets: [{
             label: 'Paper Trading 權益',
-            data: [198952.0, 198438.0, 203189.0, 204266.0, 202703.0, 207261.0, 207261.0, 209021.0, 209122.0, 210225.0, 213939.0, 211340.0, 217936.0, 218528.0, 216129.0, 216592.0, 213700.0, 216976.0, 214891.0, 214560.0, 221605.0, 224953.0, 228551.0, 229268.0, 233947.0, 232983.0, 234110.0, 237186.0, 237898.0, 237958.0, 237613.0, 237223.0, 236533.0, 237748.0, 236788.0, 236578.0, 236863.0, 237733.0, 238003.0, 237703.0, 237493.0, 237493.0, 237645.0, 237645.0, 237645.0, 237645.0, 237645.0, 237645.0, 237645.0, 237645.0, 237645.0, 237645.0, 237645.0, 237645.0, 237645.0, 237645.0, 239822.0, 234492.0, 234312.0, 246822.0, 237846.0, 223562.0, 215192.0, 220651.0, 226371.0, 222206.0, 214222.0, 217885.0, 207788.0, 200844.0, 195950.0, 194460.0, 194460.0, 194460.0, 194460.0, 194460.0, 194460.0, 194460.0, 194460.0, 194460.0, 194460.0, 194460.0, 194460.0, 194460.0, 194460.0, 194460.0, 194460.0, 194460.0, 194460.0, 194460.0, 194460.0, 194460.0, 194460.0, 194460.0, 194460.0, 194460.0, 194460.0, 194460.0, 194460.0, 194460.0, 194460.0, 194460.0, 194460.0, 194460.0, 194460.0, 194460.0, 194460.0, 194460.0, 194460.0, 194460.0, 194460.0, 194460.0, 194460.0, 194460.0, 194460.0, 194460.0, 194460.0, 194460.0, 194460.0, 194460.0, 194460.0, 194460.0, 194460.0, 194460.0, 194460.0, 194460.0, 194460.0, 194460.0, 194460.0, 194460.0, 194460.0, 195943.0, 195943.0, 196086.0, 197311.0, 197311.0, 193280.0, 193280.0, 194499.0, 187319.0, 188027.0, 181086.0, 172243.0, 171556.0, 172096.0, 172707.0, 172366.0, 173038.0, 172537.0, 172629.0, 172354.0, 171676.0, 171676.0, 171676.0, 171676.0, 171676.0],
+            data: [198952.0, 198438.0, 203189.0, 204266.0, 202703.0, 207261.0, 207261.0, 209021.0, 209122.0, 210225.0, 213939.0, 211340.0, 217936.0, 218528.0, 216129.0, 216592.0, 213700.0, 216976.0, 214891.0, 214560.0, 221605.0, 224953.0, 228551.0, 229268.0, 233947.0, 232983.0, 234110.0, 237186.0, 237898.0, 237958.0, 237613.0, 237223.0, 236533.0, 237748.0, 236788.0, 236578.0, 236863.0, 237733.0, 238003.0, 237703.0, 237493.0, 237493.0, 237645.0, 237645.0, 237645.0, 237645.0, 237645.0, 237645.0, 237645.0, 237645.0, 237645.0, 237645.0, 237645.0, 237645.0, 237645.0, 237645.0, 239822.0, 234492.0, 234312.0, 246822.0, 237846.0, 223562.0, 215192.0, 220651.0, 226371.0, 222206.0, 214222.0, 217885.0, 207788.0, 200844.0, 195950.0, 194460.0, 194460.0, 194460.0, 194460.0, 194460.0, 194460.0, 194460.0, 194460.0, 194460.0, 194460.0, 194460.0, 194460.0, 194460.0, 194460.0, 194460.0, 194460.0, 194460.0, 194460.0, 194460.0, 194460.0, 194460.0, 194460.0, 194460.0, 194460.0, 194460.0, 194460.0, 194460.0, 194460.0, 194460.0, 194460.0, 194460.0, 194460.0, 194460.0, 194460.0, 194460.0, 194460.0, 194460.0, 194460.0, 194460.0, 194460.0, 194460.0, 194460.0, 194460.0, 194460.0, 194460.0, 194460.0, 194460.0, 194460.0, 194460.0, 194460.0, 194460.0, 194460.0, 194460.0, 194460.0, 194460.0, 194460.0, 194460.0, 194460.0, 194460.0, 194460.0, 195943.0, 195943.0, 196086.0, 197311.0, 197311.0, 193280.0, 193280.0, 194499.0, 187319.0, 188027.0, 181086.0, 172243.0, 171556.0, 172096.0, 172707.0, 172366.0, 173038.0, 172537.0, 172629.0, 172354.0, 171676.0, 171676.0, 171676.0, 171676.0, 171676.0, 171676.0],
             borderColor: '#60a5fa',
             backgroundColor: 'rgba(96, 165, 250, 0.1)',
             fill: true,
@@ -444,7 +444,7 @@ new Chart(ctx, {
             borderWidth: 2,
         }, {
             label: '初始資金',
-            data: [200000, 200000, 200000, 200000, 200000, 200000, 200000, 200000, 200000, 200000, 200000, 200000, 200000, 200000, 200000, 200000, 200000, 200000, 200000, 200000, 200000, 200000, 200000, 200000, 200000, 200000, 200000, 200000, 200000, 200000, 200000, 200000, 200000, 200000, 200000, 200000, 200000, 200000, 200000, 200000, 200000, 200000, 200000, 200000, 200000, 200000, 200000, 200000, 200000, 200000, 200000, 200000, 200000, 200000, 200000, 200000, 200000, 200000, 200000, 200000, 200000, 200000, 200000, 200000, 200000, 200000, 200000, 200000, 200000, 200000, 200000, 200000, 200000, 200000, 200000, 200000, 200000, 200000, 200000, 200000, 200000, 200000, 200000, 200000, 200000, 200000, 200000, 200000, 200000, 200000, 200000, 200000, 200000, 200000, 200000, 200000, 200000, 200000, 200000, 200000, 200000, 200000, 200000, 200000, 200000, 200000, 200000, 200000, 200000, 200000, 200000, 200000, 200000, 200000, 200000, 200000, 200000, 200000, 200000, 200000, 200000, 200000, 200000, 200000, 200000, 200000, 200000, 200000, 200000, 200000, 200000, 200000, 200000, 200000, 200000, 200000, 200000, 200000, 200000, 200000, 200000, 200000, 200000, 200000, 200000, 200000, 200000, 200000, 200000, 200000, 200000, 200000, 200000, 200000, 200000, 200000],
+            data: [200000, 200000, 200000, 200000, 200000, 200000, 200000, 200000, 200000, 200000, 200000, 200000, 200000, 200000, 200000, 200000, 200000, 200000, 200000, 200000, 200000, 200000, 200000, 200000, 200000, 200000, 200000, 200000, 200000, 200000, 200000, 200000, 200000, 200000, 200000, 200000, 200000, 200000, 200000, 200000, 200000, 200000, 200000, 200000, 200000, 200000, 200000, 200000, 200000, 200000, 200000, 200000, 200000, 200000, 200000, 200000, 200000, 200000, 200000, 200000, 200000, 200000, 200000, 200000, 200000, 200000, 200000, 200000, 200000, 200000, 200000, 200000, 200000, 200000, 200000, 200000, 200000, 200000, 200000, 200000, 200000, 200000, 200000, 200000, 200000, 200000, 200000, 200000, 200000, 200000, 200000, 200000, 200000, 200000, 200000, 200000, 200000, 200000, 200000, 200000, 200000, 200000, 200000, 200000, 200000, 200000, 200000, 200000, 200000, 200000, 200000, 200000, 200000, 200000, 200000, 200000, 200000, 200000, 200000, 200000, 200000, 200000, 200000, 200000, 200000, 200000, 200000, 200000, 200000, 200000, 200000, 200000, 200000, 200000, 200000, 200000, 200000, 200000, 200000, 200000, 200000, 200000, 200000, 200000, 200000, 200000, 200000, 200000, 200000, 200000, 200000, 200000, 200000, 200000, 200000, 200000, 200000],
             borderColor: '#475569',
             borderDash: [5, 5],
             fill: false,
